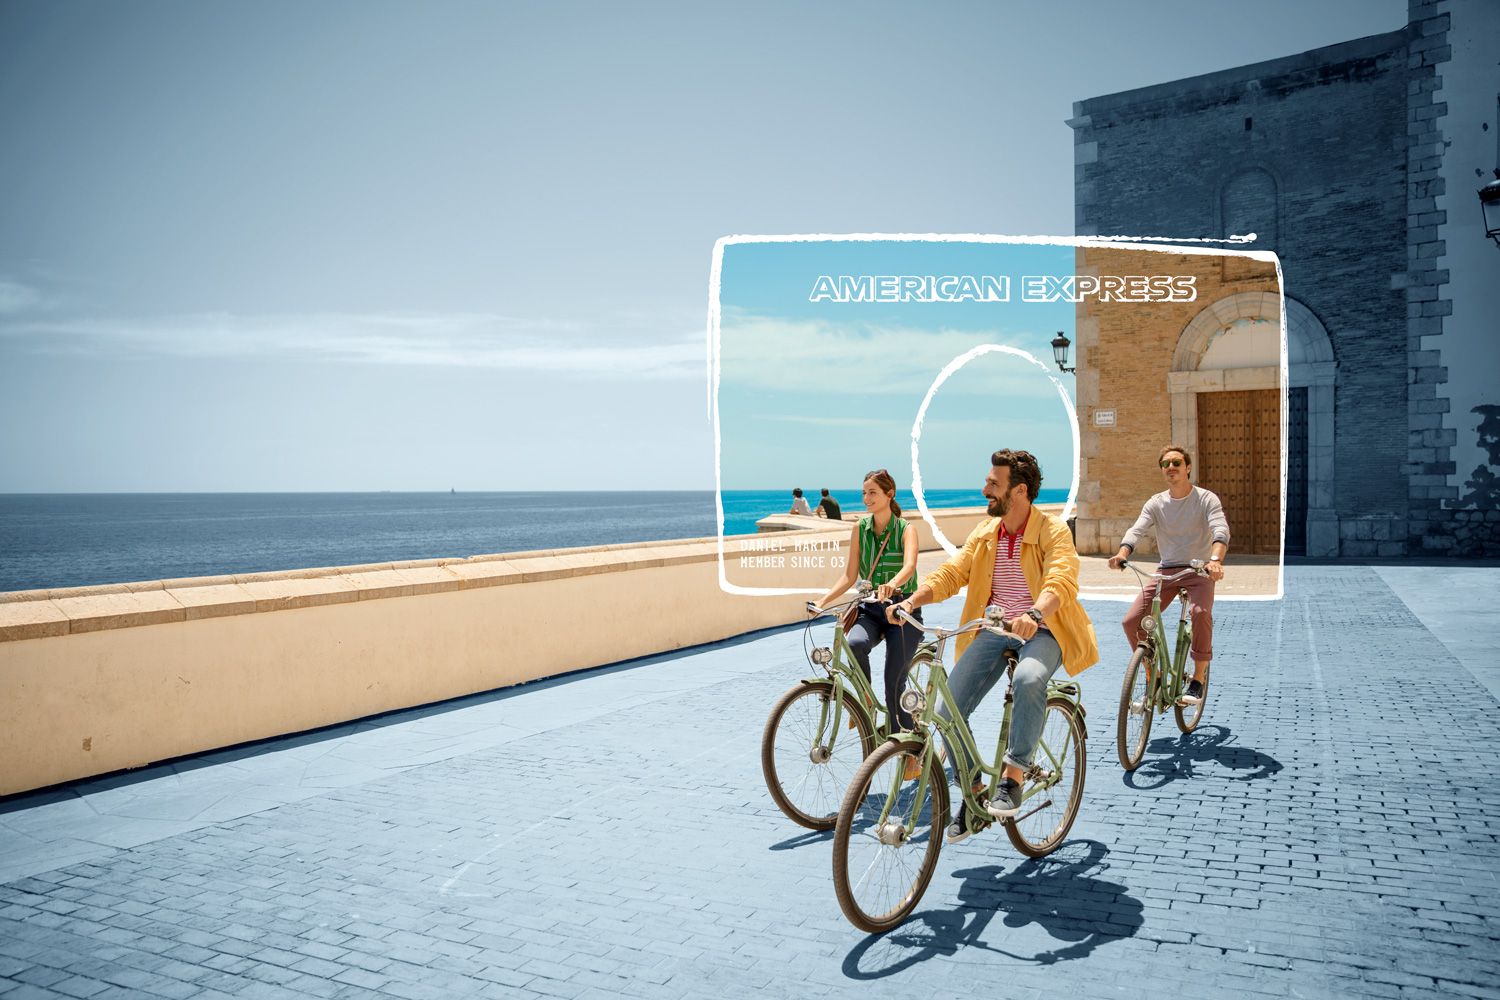
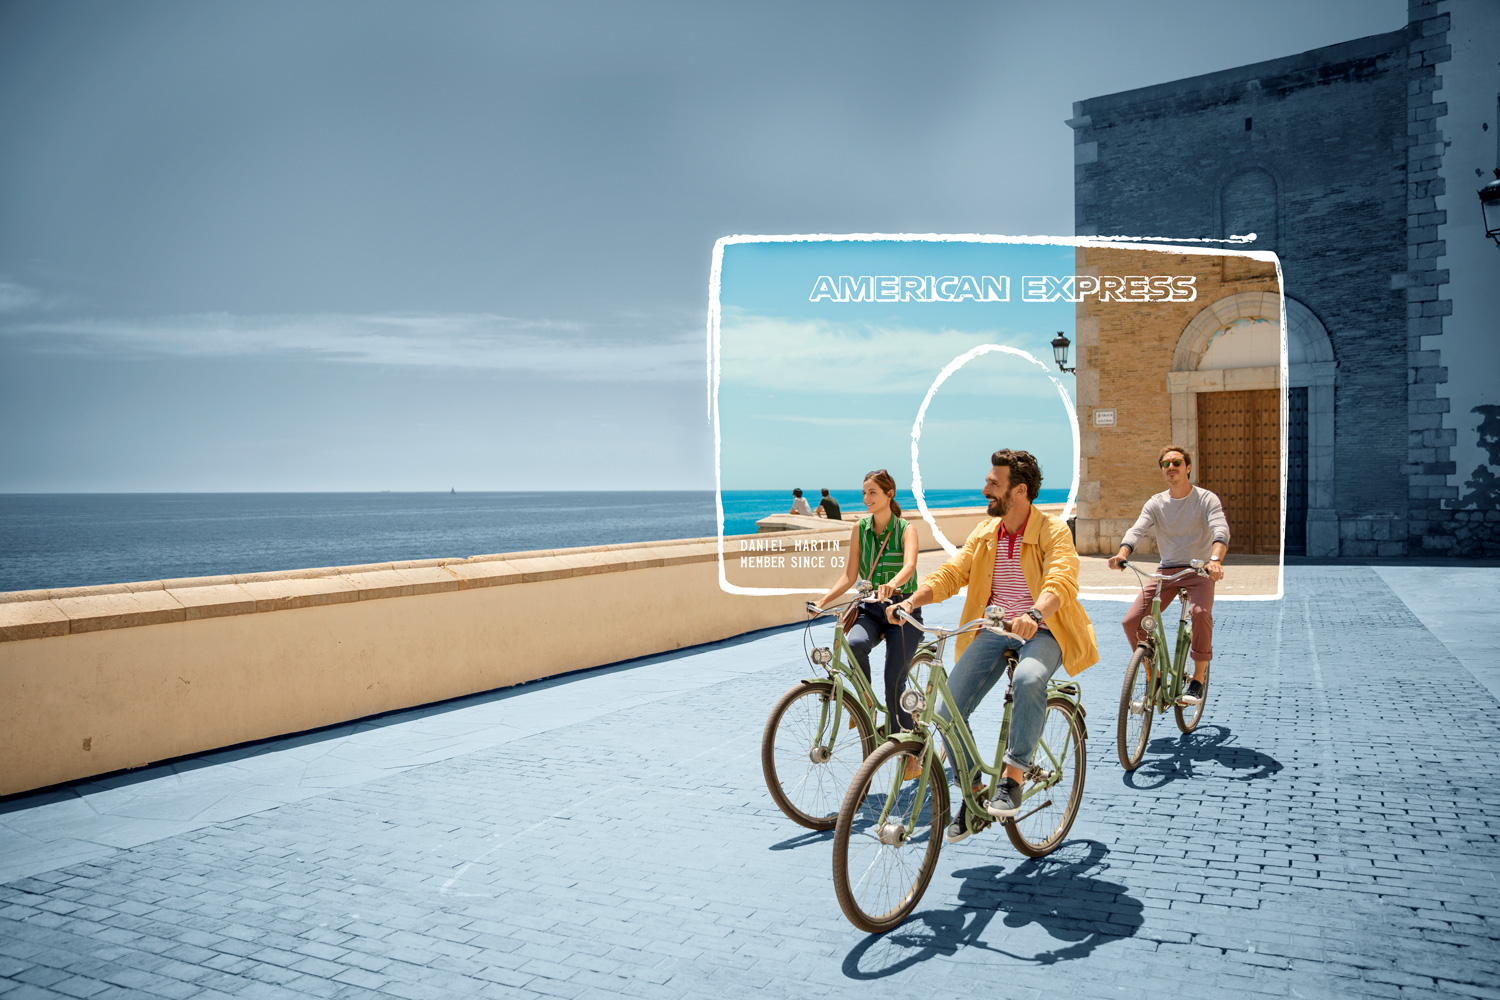
changes made to opening scene

Changed region(s): [[0.0, 0.0, 0.6747, 0.496], [0.0, 0.527, 0.5827, 0.806]]

diff --git a/src/assets/js/scripts.js b/src/assets/js/scripts.js
@@ -101,9 +101,6 @@ function startOpeningScene(){
         $('.os-container #sheen').addClass('hide');
     }, 1000);
     setTimeout(function(){
-        // $('.os-container #message').each(function(){
-        //     $(this).html($(this).text().replace(/([^\x00-\x80]|\w)/g, "<span class='letter'>$&</span>"));
-        // });
         $('.os-container #message').css('opacity', '1');
         $('.os-container #message .word').css('display', 'inline-block');
         $('.os-container #final').addClass('hide');
@@ -115,20 +112,20 @@ function startOpeningScene(){
         $('.os-container #mask').addClass('hide');    
     }, 5000);
     setTimeout(function(){
-        $('#message').addClass('animate');
+        //$('#message').addClass('animate');
         var osAnimation = new TimelineMax();
-        osAnimation.add(TweenMax.to($('.os-container'), 2, {width: '50vw', transform: 'translateX(50vw)'}));
-        osAnimation.add(TweenMax.to($('.os-container #final-scene'), 2, {'background-size':'168.5%'}), '-=2');
-        osAnimation.add(TweenMax.to($('.os-container #final-scene'), 3.5, {'background-position-x':'70%'}), '-=3.5');
-        osAnimation.add(TweenMax.to($('.os-container #message'), .5, {opacity:0}), '-=4');
+        //osAnimation.add(TweenMax.to($('.os-container'), 2, {width: '50vw', transform: 'translateX(50vw)'}));
+        //osAnimation.add(TweenMax.to($('.os-container #final-scene'), 2, {'background-size':'168.5%'}), '-=2');
+        //osAnimation.add(TweenMax.to($('.os-container #final-scene'), 3.5, {'background-position-x':'70%'}), '-=3.5');
+        //osAnimation.add(TweenMax.to($('.os-container #message'), .5, {opacity:0}), '-=2');
+        osAnimation.add(TweenMax.to($('.os-container'), 1, {opacity:0}));
         osAnimation.play();
 
-        //var osAnimationComplete = osAnimation.eventCallback("onComplete");
         osAnimation.eventCallback("onComplete", function(){
-            
             $('body').addClass('opening-done');
             console.log("---animation done-------");
             startNavAnimations();
+           $('.os-container').remove();
         }); //sets the onComplete
     }, 7500)
 

diff --git a/src/app/opening-scene/opening-scene.component.scss b/src/app/opening-scene/opening-scene.component.scss
@@ -7,6 +7,7 @@
     top: 0;
     left: 0;
     overflow: hidden;
+    z-index: 100;
 
     .fullscreen{
         position: absolute;
@@ -17,12 +18,12 @@
 
         img{
             position: absolute;
-            bottom: 0;
+            top: -20vh;
             width:100%;
         }
         svg{
             position: absolute;
-            bottom: 0;
+            top: -20vh;
             width:100%;
         }
     }
@@ -35,7 +36,7 @@
         background:url('/assets/images/introduction.jpg');
         background-size: 100%;
         background-position-x: 0%;
-        background-position-y: bottom;
+        background-position-y: -20vh;
     }
     #message{
         position: absolute;

diff --git a/src/app/app.component.ts b/src/app/app.component.ts
@@ -27,7 +27,7 @@ export class AppComponent implements OnInit {
   navOpen = false;
   currentNav;
   currentState;
-  openingScene = true;
+  playOpeningScene;
 
   menuTopLevelItems = navigationTopLevelItems;
   menuSecondLevelItems = navigationSecondLevelItems;
@@ -40,6 +40,7 @@ export class AppComponent implements OnInit {
 
   ngOnInit() {
     this.getScreenSize();
+    this.data.currentOpeningScene.subscribe(value => this.playOpeningScene = value);
   }
 
   onResize(event){

diff --git a/src/app/opening-scene/opening-scene.component.ts b/src/app/opening-scene/opening-scene.component.ts
@@ -9,10 +9,12 @@ import { DataService } from '../shared/data.service';
 })
 export class OpeningSceneComponent implements OnInit {
 
+  playOpeningScene;
+
   constructor(private data: DataService) { }
 
   ngOnInit() {
-    console.log(this.data.currentOpeningScene);
+    this.data.currentOpeningScene.subscribe(value => this.playOpeningScene = value);
   }
 
 }

diff --git a/src/app/app.component.html b/src/app/app.component.html
@@ -85,4 +85,6 @@
   <router-outlet #o="outlet"></router-outlet>
 </main>
 
-<app-opening-scene></app-opening-scene>
+<ng-container *ngIf="playOpeningScene">
+  <app-opening-scene></app-opening-scene>
+</ng-container>
